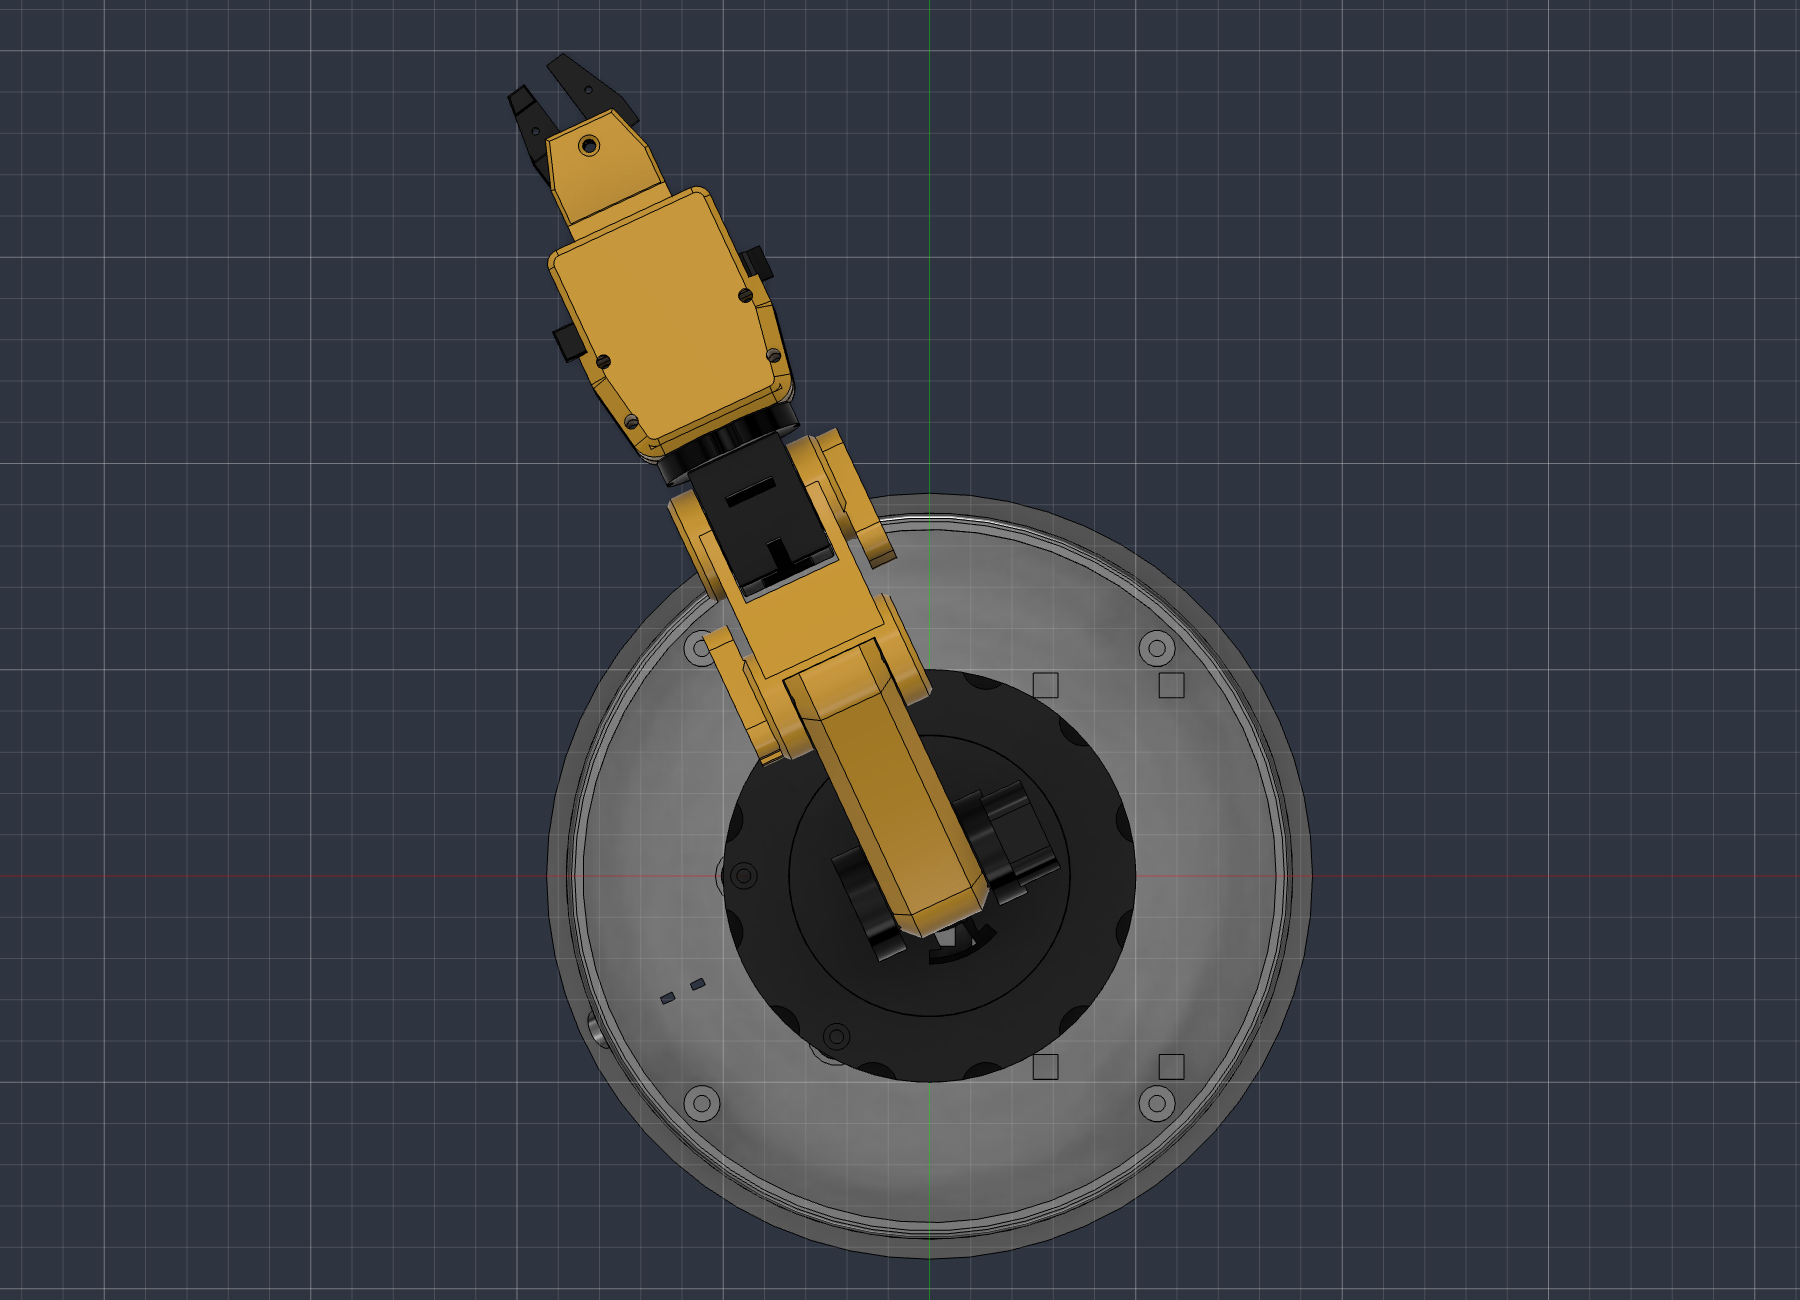
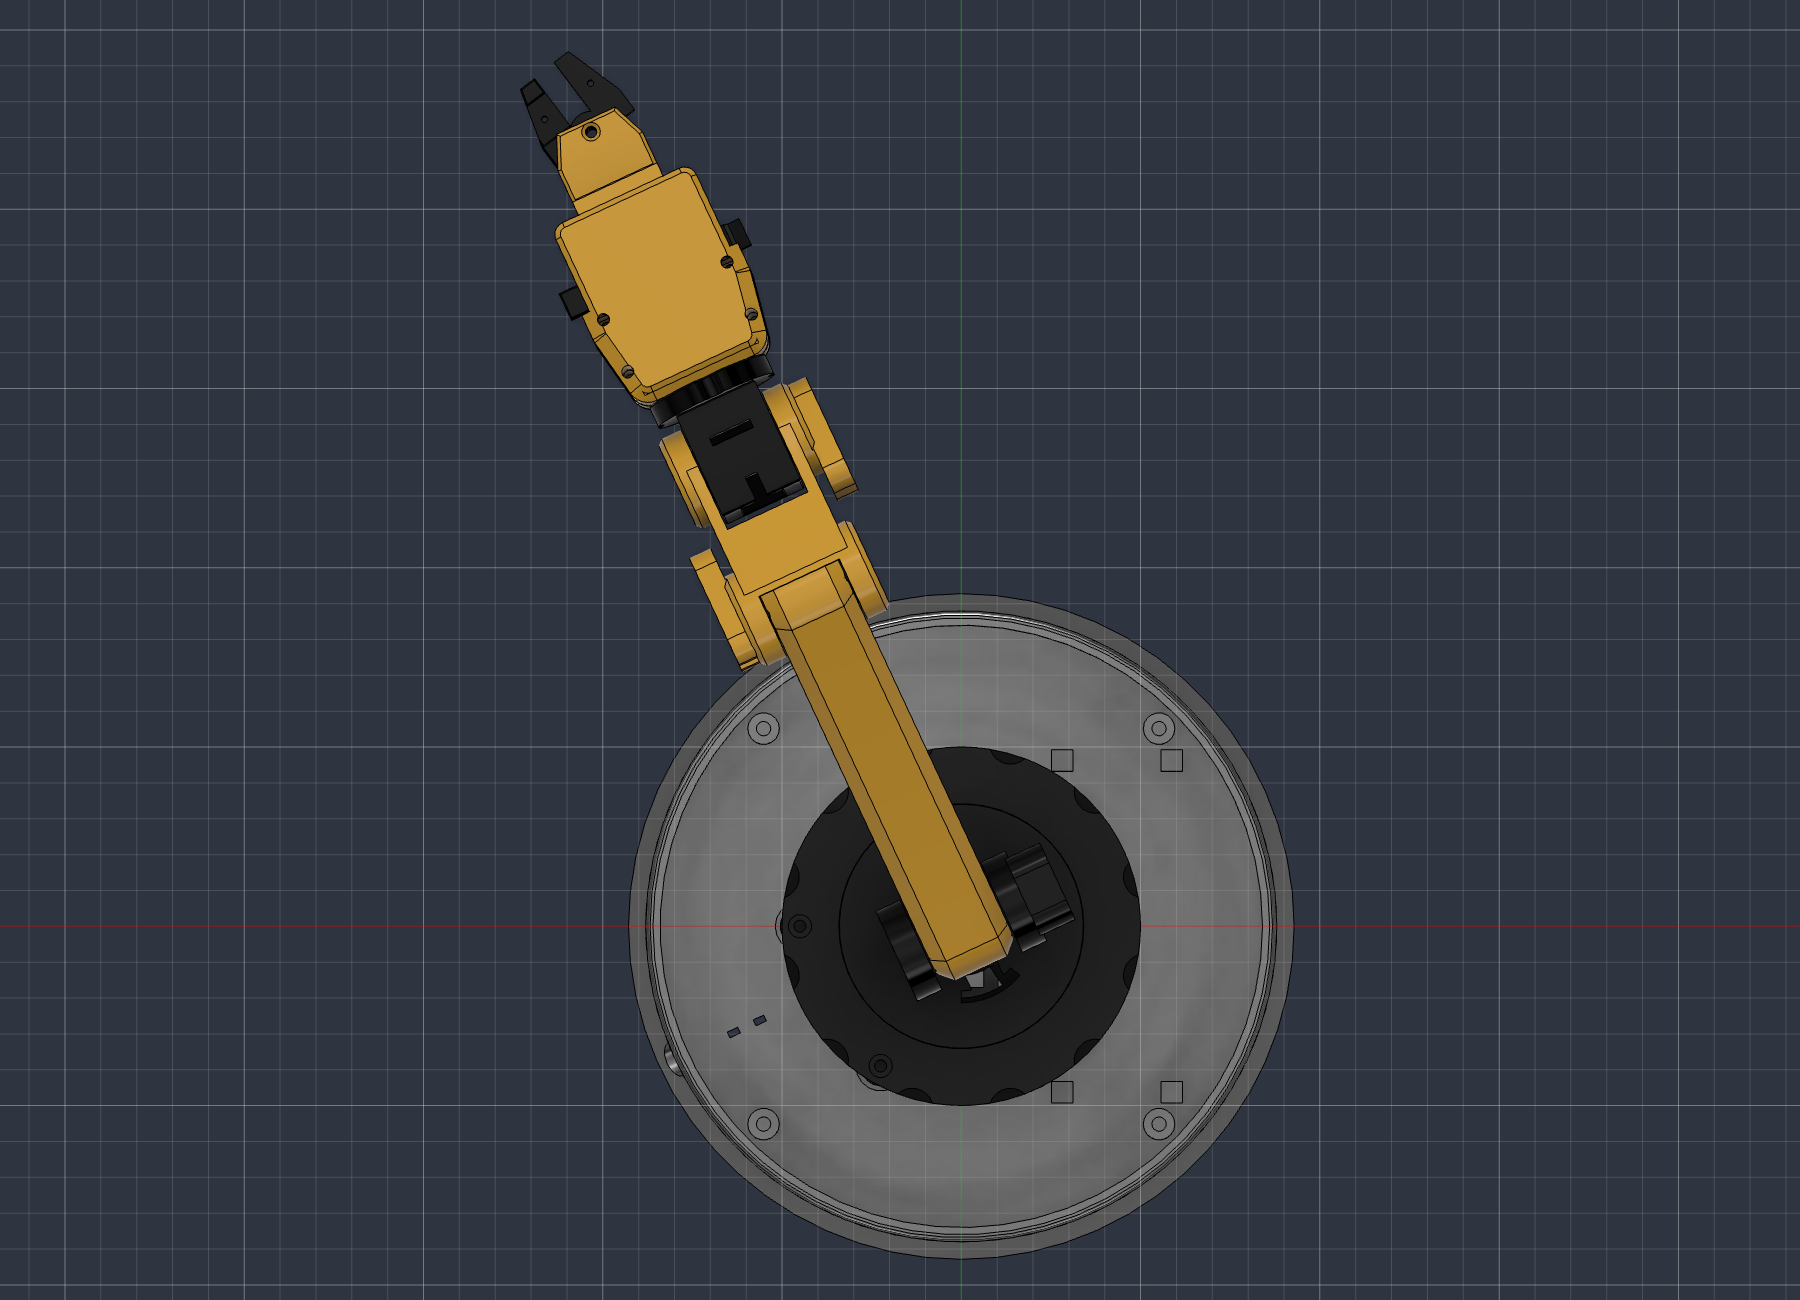
robotarm: revert the head diet, keep L1 125 - a fifth of the cut force for three points
Jonathan, given the real numbers: revert it.

The diet was sold on a projection of J3 88% -> 78%. It delivered 85%. The
projection assumed a 9 mm shorter head moves 9 mm inboard; it does not,
because the SG90 bay in the tail is half the head's mass and does not move
at all. Mass-weighted the head COM moved 1.46 mm. Only the payload really
moved, riding on pivot_y.

So the trade on offer was 19 % of cutting force - 31.5 -> 25.4 N at the
throat, tail_r being the mechanical advantage one for one - for three
points of a STATIC margin. Reverted.

  CHOSEN back to tail_r 26.0 / pivot_y 42.0 / knee_y 29.0
  HEAD_OFFSET_MM back to 47.0, PAYLOAD_OFFSET_MM back to 68.0

The reasoning is kept in lib/pruner_linkage.py rather than deleted, because
someone will propose it again and the answer is not obvious from the
geometry alone.

KEPT: ps_cheek_front's pad, 6.0 -> 3.5 mm past the blade pivot. 3.2 mm is
what the bore and its wall need, so 2.5 mm of it was padding - free head
length at no mechanical cost. Cut force is unchanged at 31.5 N.

pruner_blade and pruner_rack come back to their ledger volumes at 0.000,
which is what says the revert is exact rather than approximately exact.

LEDGER re-baselined, two parts, both intended:
  upper_arm     +17628.5   L1 65 -> 125
  pruner_shell    -162.7   the cheek pad trim

FINAL: L1 125, L2 45, head 32.61 g. J2 60 %, J3 87 %, J4 36 % - all PASS.
Reach 178 -> 232 mm straight out; the posed render reads 278 mm.
[…]

diff --git a/lib/pruner_linkage.py b/lib/pruner_linkage.py
@@ -279,32 +279,33 @@ def stem_mm(force_N: float, progression: float, n_per_mm: float = 10.0) -> float
 # disc every time: by assuming the disc sat behind y = 0, then by treating the
 # pin as a point rather than a cylinder, then by forgetting the tail runs past
 # the pin at all. Each is now an assertion, because each looked fine.
-# SHORTENED 2026-08-29, deliberately, to buy elbow margin. tail_r IS the
-# mechanical advantage - one for one - so this is not a free trim:
+# SHORTENED, THEN REVERTED, 2026-08-29. Recorded because the reasoning is
+# the useful part and someone will propose it again.
 #
-#   tail_r 26.0 -> 21.0   MA at the throat 3.68 -> 2.97, cut force at the
-#                         throat 31.5 N -> 25.4 N. The claimed stem on the
-#                         pessimistic x2 progression goes 6.3 -> 5.06 mm
-#                         against test_pruner_linkage's committed 5.0 floor:
-#                         it passes by 1 %, and there is no room below this.
-#   pivot_y 42.0 -> 35.5  the binding constraint is
-#                         pivot_y >= 1.3054*tail_r + 7.625 = 35.04 at 40 deg
-#   knee_y  29.0 -> 25.0  stays the midpoint of a knee_x = 0 tail
+# tail_r 26 -> 21 was tried to buy elbow margin. tail_r IS the mechanical
+# advantage one for one, so it cost 19 % of cutting force: 31.5 -> 25.4 N at
+# the throat, and the claimed stem on the pessimistic progression fell from
+# 6.3 to 5.06 mm against a committed 5.0 floor.
 #
-# It shortens the head 9.0 mm (with cheek_front's pad cut 6.0 -> 3.5) and
-# takes 1.6 g off the pair. Mouth opening is UNCHANGED at 7.0 mm - that is
-# 2 x edge_offset and edge_offset costs no length. Rack travel improves,
-# 139 deg of servo sweep down to 112.
+# It bought THREE POINTS of J3 duty, 88 % -> 85 %, not the ten that were
+# projected. The projection assumed a 9 mm shorter head moves 9 mm inboard.
+# It does not: the SG90 bay in the tail is half the head's mass and does not
+# move at all, so mass-weighted the head COM moved 1.46 mm. Only the payload
+# really moved, 6.5 mm, riding on pivot_y.
 #
-# WHY: _check_loads counted one clamshell half, so the head was priced at
-# 21.44 g when it is 32.87. Corrected, the elbow sat at 88 % of duty. This
-# and the L1 change are what buy that back.
+# A fifth of the cutting force for three points of a STATIC margin is a bad
+# trade, so this is back where it was. If the elbow needs margin, it is
+# cheaper to find it anywhere other than tail_r.
+#
+# What was KEPT: ps_cheek_front's pad, 6.0 -> 3.5 mm past the pivot. That is
+# pure padding - 3.2 mm is needed for the bore and its wall - so it is 2.5 mm
+# of head length for no mechanical cost at all.
 CHOSEN = Layout(
     pivot_x=0.0,        # common pivot, true scissors: the two blades share a
-    pivot_y=35.5,       # post, which is what keeps the crossing angle shallow
-    tail_r=21.0,
+    pivot_y=42.0,       # post, which is what keeps the crossing angle shallow
+    tail_r=26.0,
     knee_x=0.0,
-    knee_y=25.0,
+    knee_y=29.0,
     edge_offset=3.5,    # THE cut-or-crush parameter. See crossing_r().
     throat_r=8.5,       # nominal stem position, measured from the pivot
     tip_r=20.0,         # far end of the usable edge

diff --git a/models/robotarm/_check_loads.py b/models/robotarm/_check_loads.py
@@ -90,17 +90,21 @@ HUB_SPIN_DEG = 90.0          # matches _check_wrist - every socket in this arm
 # What actually moved, and by how much - the head is NOT rigid-shifted by
 # the 9.0 mm, because its tail (the SG90 bay, half its mass) did not move:
 #
-#   HEAD_OFFSET   mass-weighted from the rebuilt COMs. shell COM -4.1 ->
-#                 -5.6 (2 x 11.24 g), blade -5.8 -> -3.1 but placed on a
-#                 pivot that moved -6.5, so net -3.8 (2 x 1.26 g), rack
-#                 5.9 -> 5.3 (2 x 2.79 g), pinion unchanged (1.33 g).
-#                 Weighted: -1.46 mm. 47.0 -> 45.5.
+#   HEAD_OFFSET   mass-weighted from the rebuilt COMs. With tail_r reverted
+#                 the only surviving change is ps_cheek_front's pad, 6.0 ->
+#                 3.5: that removes 2 x 0.26 g of cheek nose about 3 mm
+#                 ahead of the head COM, which moves it under 0.1 mm - below
+#                 what a typed constant resolves. So 47.0 stands, and it
+#                 stands because it was CHECKED, not because nobody looked.
 #   PAYLOAD       the stem sits in the jaw, and the jaw is the crossing
-#                 point, which rides on CHOSEN.pivot_y. That moved
-#                 42.0 -> 35.5, so this moves with it: 68.0 -> 61.5.
-HEAD_OFFSET_MM = 45.5        # pruner head centre of mass, past the wrist end
+#                 point, which rides on CHOSEN.pivot_y. pivot_y is back at
+#                 42.0, so this is back at 68.0.
+#
+# The shortening that made this note necessary is documented in
+# lib/pruner_linkage.py, along with why it was reverted.
+HEAD_OFFSET_MM = 47.0        # pruner head centre of mass, past the wrist end
 PAYLOAD_G = 25.0             # rated payload, _assembly.md
-PAYLOAD_OFFSET_MM = 61.5     # asm_l3 - wrist axis to the jaw faces
+PAYLOAD_OFFSET_MM = 68.0     # asm_l3 - wrist axis to the jaw faces
 
 # HOW MANY OF EACH. The head is a CLAMSHELL: _check_pruner places
 # pruner_shell twice (M3() and `turned`) and so does _preview_arm. This file

diff --git a/lib/arm_budget.py b/lib/arm_budget.py
@@ -62,9 +62,7 @@ CLUSTER = [
     ('SG90 J5 roll',      9.0,    0.0,   True),
     ('SG90 effector',     9.0,   32.0,   True),
 ]
-HEAD_OFFSET_MM = 45.5        # head centre of mass, past the wrist end.
-                             # 47.0 -> 45.5 with the 2026-08-29 head diet;
-                             # see the derivation in _check_loads.py.
+HEAD_OFFSET_MM = 47.0        # head centre of mass, past the wrist end
 
 # --- the links -------------------------------------------------------------
 # mass per mm of length at the CURRENT section, back-calculated from the
